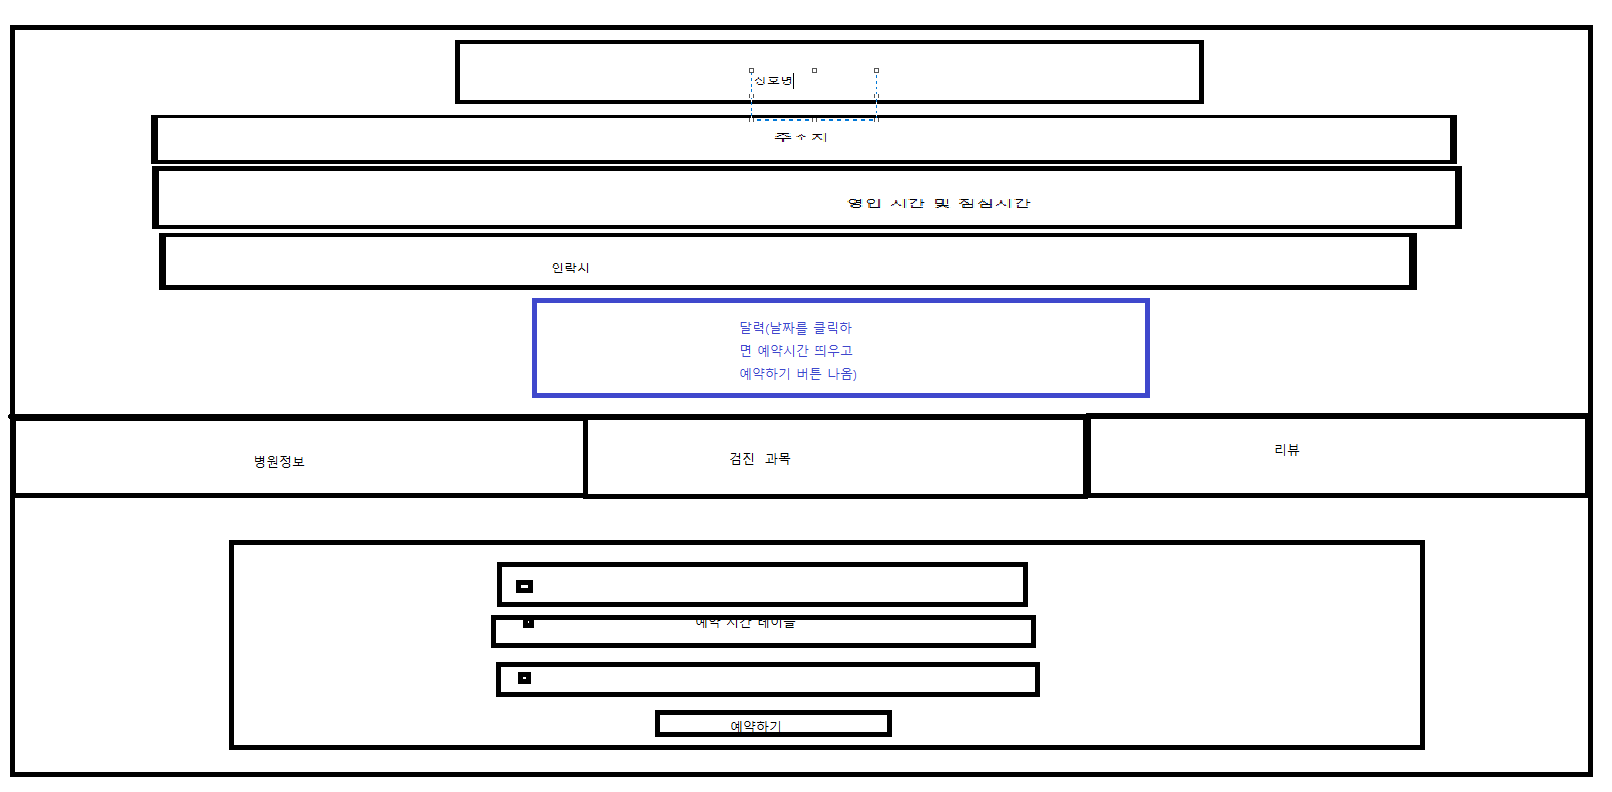
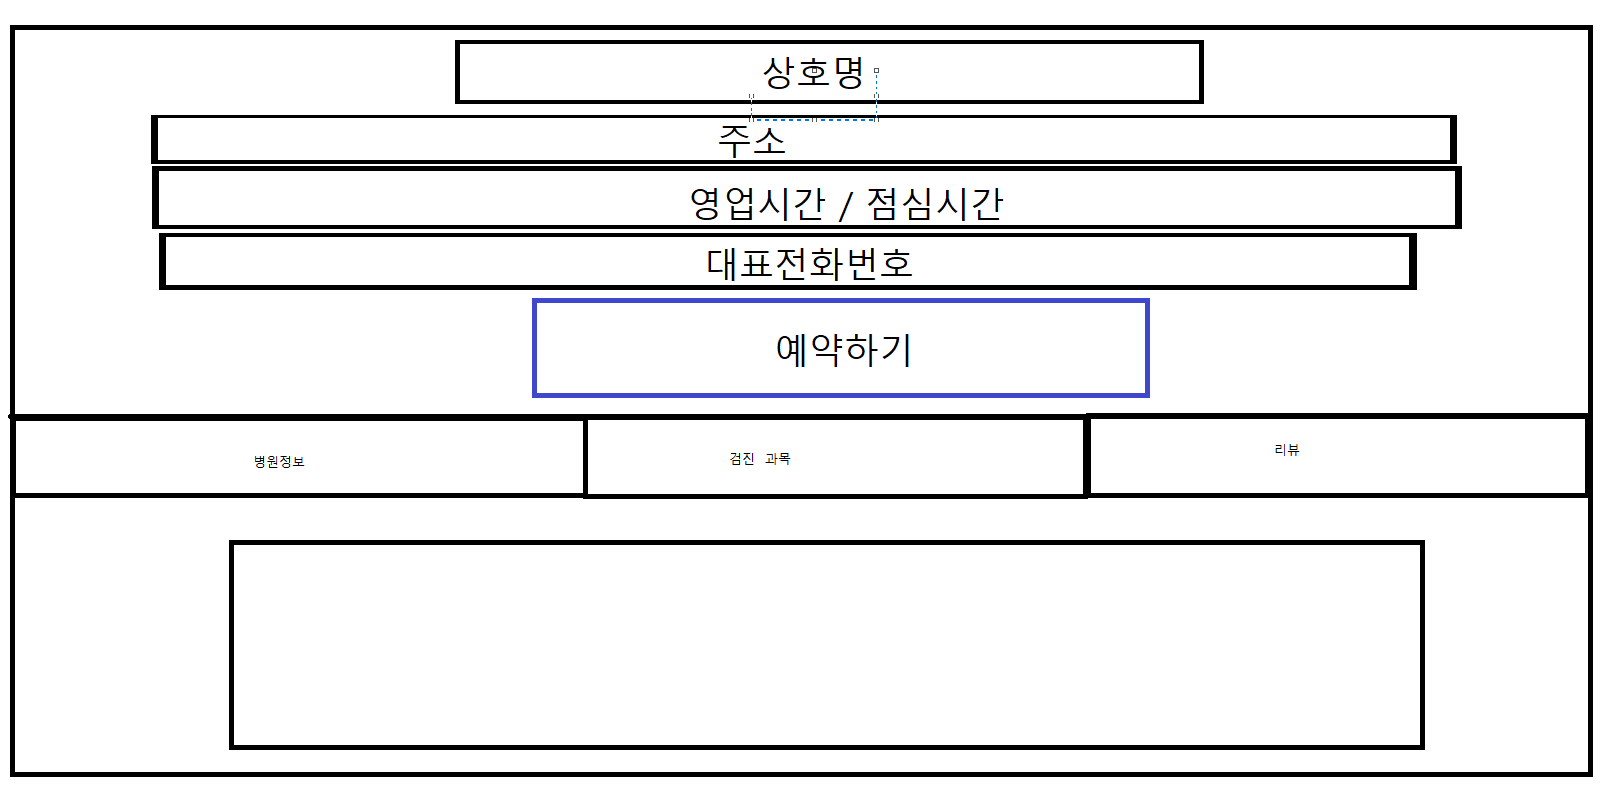
병원 상세 페이지 등록 구현중

diff --git a/team3Spring/src/main/java/kr/kh/team3/controller/HospitalController.java b/team3Spring/src/main/java/kr/kh/team3/controller/HospitalController.java
@@ -31,10 +31,13 @@ public class HospitalController {
 	@Autowired
 	HospitalService hospitalService;
 
+	
 	@GetMapping("/hospital/mypage")//병원 마이페이지
 	public String hospitalMypage(Model model, HospitalVO hospital, HttpSession session) {
 		SiteManagement user = (SiteManagement) session.getAttribute("user");
 		HospitalVO huser = hospitalService.getHospital(user);
+		log.info(user);
+		log.info(huser);
 		model.addAttribute("huser",huser);
 		return "/hospital/mypage";
 	}
@@ -50,34 +53,36 @@ public class HospitalController {
 	
 	//병원 상세 페이지 등록
 	@GetMapping("/hospital/detail/insert")
-	public  String detailInsert(Model model) {
-		//병원의 정보
-		HospitalVO hoInfo = hospitalService.getHospitalInfo();
-		//과목
+	public  String detailInsert(Model model, HttpSession session) {
+		//현재 로그인한 병원
+		SiteManagement user = (SiteManagement)session.getAttribute("user");
+		HospitalVO hospital = hospitalService.getHospital(user);
+		//병원과목 리스트
 		ArrayList<HospitalSubjectVO> hsList = hospitalService.getHospitalSubjectList();
-		model.addAttribute("hoInfo", hoInfo);
+		//현재 로그인한 병원이 선택했던 병원과목 가져오기
+		HospitalSubjectVO selectedSubject = hospitalService.getSelectedSubject(hospital);
+		
+		model.addAttribute("hospital", hospital);
 		model.addAttribute("hsList", hsList);
+		model.addAttribute("selectedSubject", selectedSubject);
 		return "/hospital/detail/insert";
 	}
 
 	//병원 상세 페이지 등록(insert)
-	@ResponseBody
 	@PostMapping("/hospital/detail/insert")
 	public String hospitalDetailPost(Model model, HospitalDetailVO detail, HttpSession session) {
-		//현재 로그인된 병원을 가져온다.
-		HospitalVO hospital = (HospitalVO)session.getAttribute("hospital");
-		
-		
-		boolean res = hospitalService.insertDetail(detail, hospital);
-		
-		log.info(hospital);
-		log.info(res);
+		//현재 로그인한 병원
+		SiteManagement user = (SiteManagement)session.getAttribute("user");
+		HospitalVO hospital = hospitalService.getHospital(user);
+		//병원 페이지 등록
+		boolean res = hospitalService.insertHospitalDetail(detail, hospital);
+
 		if(res) {
 			model.addAttribute("msg", "게시글 등록 완료");
 			model.addAttribute("url", "/hospital/mypage");
 		}else {
 			model.addAttribute("msg", "게시글 등록 실패");
-			model.addAttribute("url", "/hospital/info");
+			model.addAttribute("url", "/hospital/detail/insert");
 		}
 		return "message";
 	}

diff --git a/team3Spring/src/main/java/kr/kh/team3/service/HospitalServiceImp.java b/team3Spring/src/main/java/kr/kh/team3/service/HospitalServiceImp.java
@@ -339,20 +339,33 @@ public class HospitalServiceImp implements HospitalService {
 	}
 	//병원 상세 페이지 - 선진, 민석 ==============================================
 	@Override
-	public boolean insertDetail(HospitalDetailVO detail, HospitalVO hospital) {
-		if(detail == null || detail.getHd_info() == null || detail.getHd_time() == null
-		|| detail.getHd_park() == null || detail.getHd_ho_id() == null) {
+	public boolean insertHospitalDetail(HospitalDetailVO detail, HospitalVO hospital) {
+		if(detail.getHd_info() == null 
+		|| detail.getHd_time() == null 
+		|| detail.getHd_park() == null) {
+			System.out.println("디테일 안넣어짐");
 			return false;
 		}
 		if(hospital == null || hospital.getHo_id() == null) {
+			System.out.println("병원아이디");
 			return false;
 		}
-		return hospitalDao.insertDetail(detail, hospital.getHo_id());
+		
+		detail.setHd_ho_id(hospital.getHo_id());
+		return hospitalDao.insertHospitalDetail(detail);
 	}
 
 	@Override
 	public HospitalVO getHospitalInfo() {
 		return hospitalDao.selectHospitalInfo();
+	}
+
+	@Override
+	public HospitalSubjectVO getSelectedSubject(HospitalVO hospital) {
+		if(hospital == null || hospital.getHo_id() == null) {
+			return null;
+		}
+		return hospitalDao.selectSelectedSubject(hospital);
 	}
 	
 }

diff --git a/team3Spring/src/main/java/kr/kh/team3/dao/HospitalDAO.java b/team3Spring/src/main/java/kr/kh/team3/dao/HospitalDAO.java
@@ -76,9 +76,11 @@ public interface HospitalDAO {
 	
 	ArrayList<HospitalSubjectVO> selectHospitalSubjectList(@Param("ho_id") String ho_id);
 
-	boolean insertDetail(@Param("detail") HospitalDetailVO detail, @Param("ho_id") String ho_id);
+	boolean insertHospitalDetail(@Param("hd") HospitalDetailVO detail);
 
 	HospitalVO selectHospitalInfo();
+
+	HospitalSubjectVO selectSelectedSubject(@Param("hospital") HospitalVO hospital);
 
 
 }

diff --git a/team3Spring/src/main/java/kr/kh/team3/service/HospitalService.java b/team3Spring/src/main/java/kr/kh/team3/service/HospitalService.java
@@ -72,10 +72,12 @@ public interface HospitalService {
 	ArrayList<HospitalSubjectVO> selectSubject();
 
 	//병원 상세 페이지==========================================
-	boolean insertDetail(HospitalDetailVO detail, HospitalVO hospital);
+	boolean insertHospitalDetail(HospitalDetailVO detail, HospitalVO hospital);
 
 
 	HospitalVO getHospitalInfo();
+
+	HospitalSubjectVO getSelectedSubject(HospitalVO hospital);
 
 
 }

diff --git a/team3Spring/src/main/java/kr/kh/team3/model/vo/HospitalDetailVO.java b/team3Spring/src/main/java/kr/kh/team3/model/vo/HospitalDetailVO.java
@@ -10,9 +10,11 @@ public class HospitalDetailVO {
 
 	private int hd_num;
 	private String hd_ho_id;
+	private int hd_hs_num;
 	private String hd_info;
 	private String hd_time; 
 	private String hd_park; 
 	private String hd_announce; 
 	private String hd_etc;
+	private String hd_subject_detail;
 }
